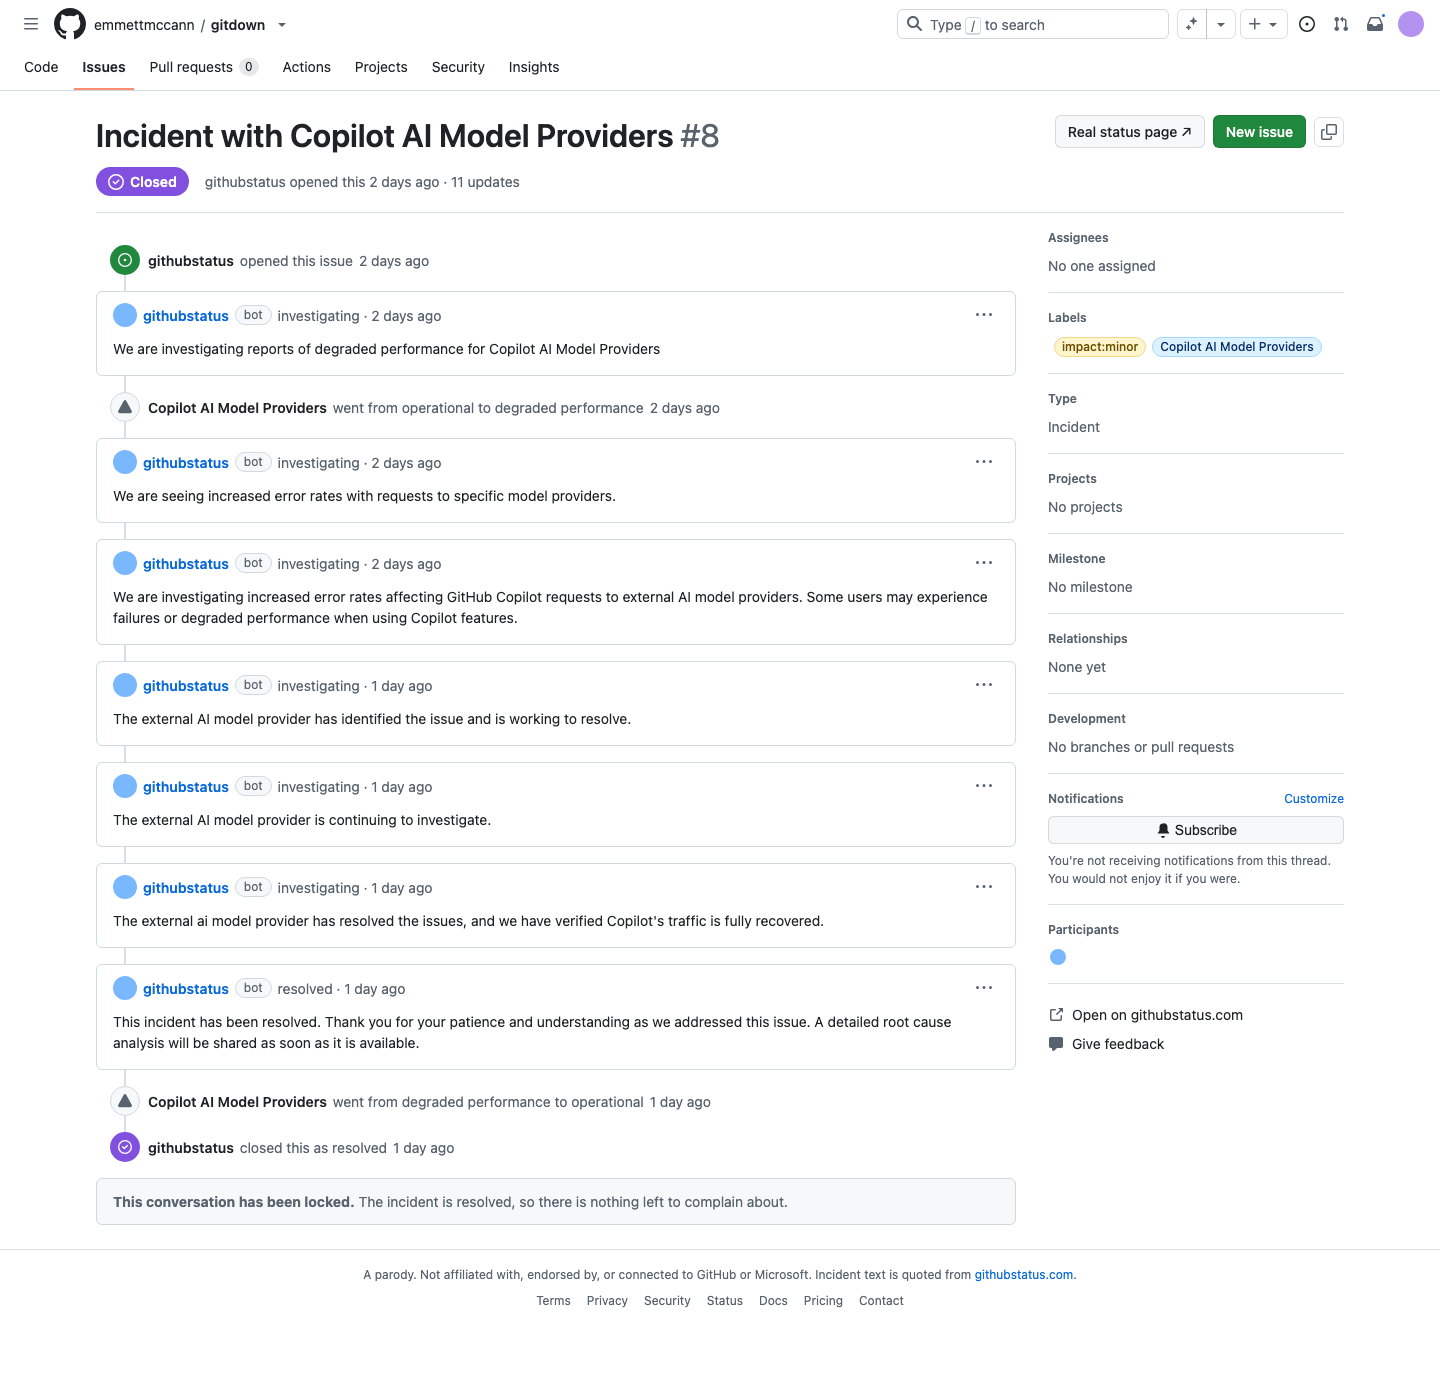
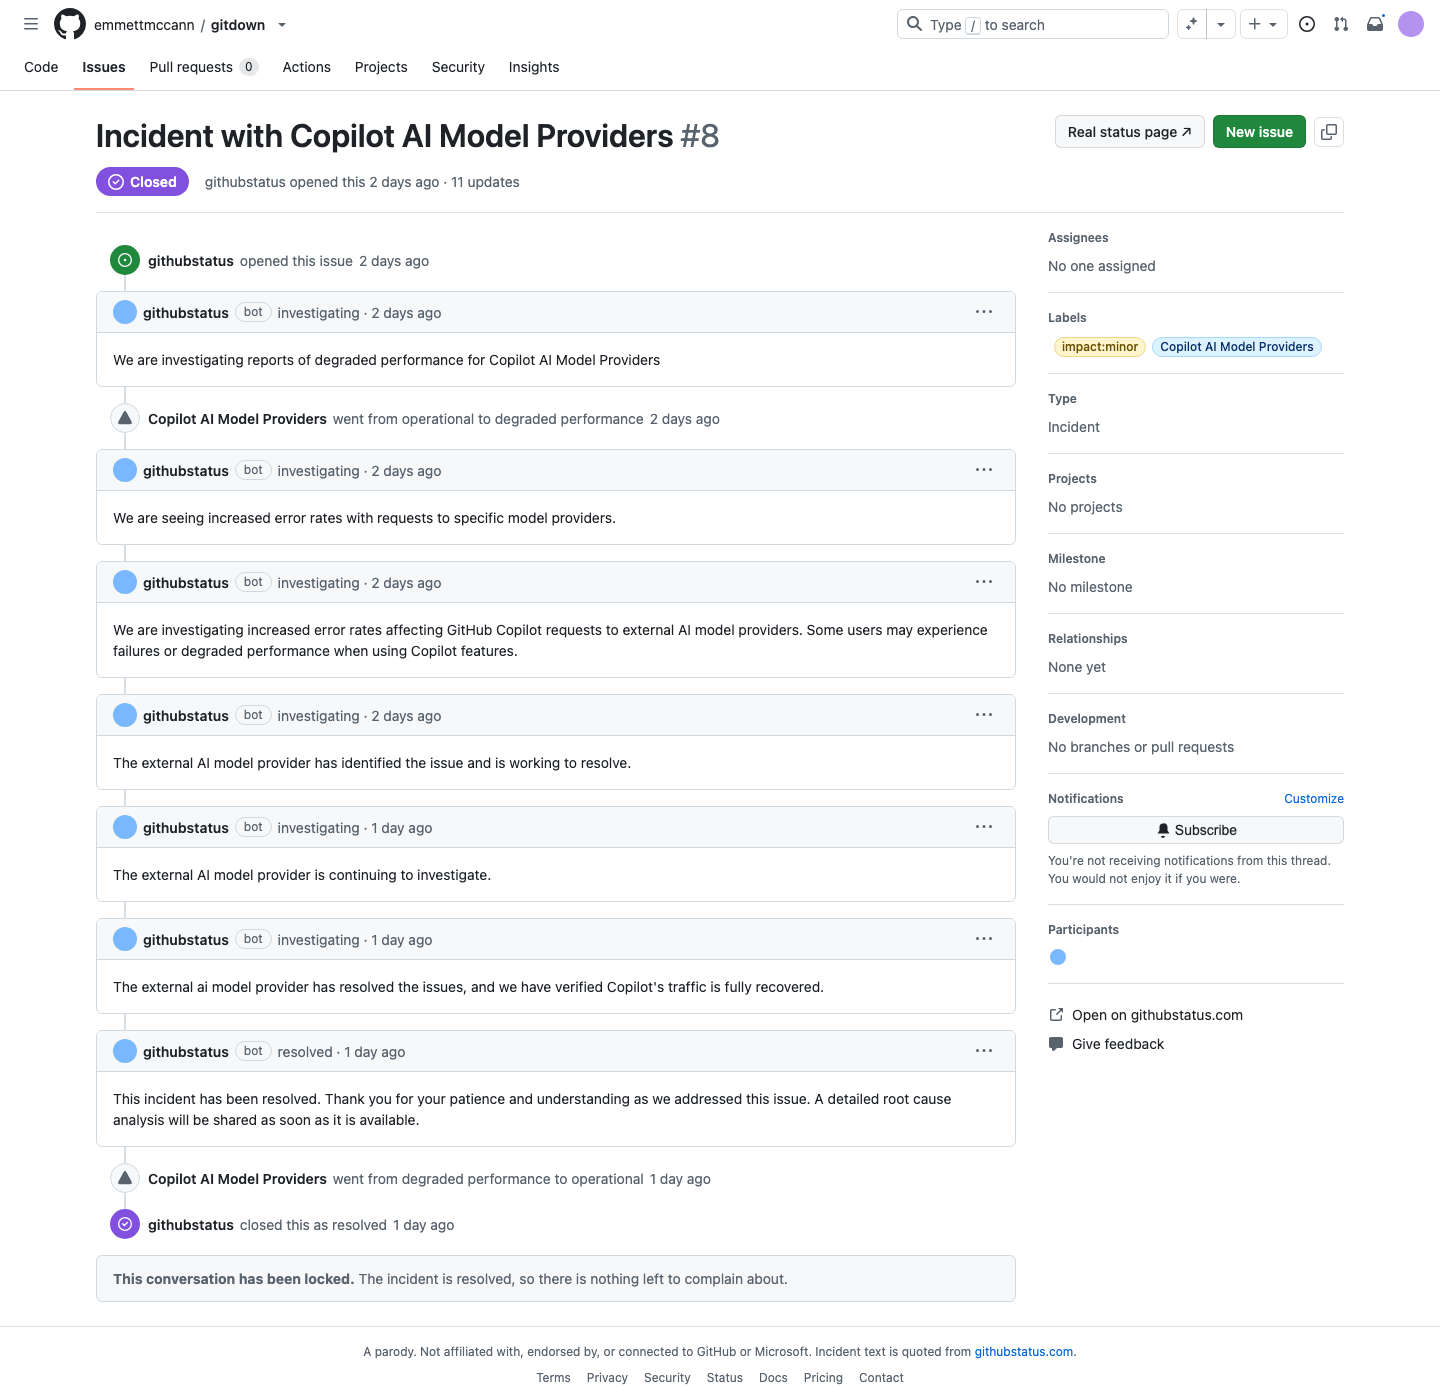
Give the comment header its filled band back (#18)
#16 flattened the comment header, on the reasoning that "signed in, the
author line is not a filled bar across the top of the card". The reference
does not bear that out: on a signed-in issue the author line sits on
--color-canvas-subtle with a rule under it, and the body is the only white
part of the card. It is the same band the composer's Write/Preview strip
already uses, which is what the card was left inconsistent with.

The fill is nested inside the card's 1px border, so its radius is a pixel
tighter than the card's — at an equal radius the corners of the fill cut
outside the border they sit in. With a divider under the header the body no
longer needs to carry the gap itself, so its padding goes back to an even 16.

Two things the band made visible:

- The kebab is an `.icon-btn`, sized 30px for the global header. Left at
  that, the button rather than the avatar set the height of the band: 47px
  against the ~40 the reference shows. Sized to the avatar it is 41px.
- The author name rendered as a blue link. On github.com a comment author is
  default foreground at 600 — the blue is saved for links inside the comment
  body, and with the name blue the header had two competing blues in it.

npm test 110 passing · npm run typecheck clean · issue view verified open
and closed, and the before/after captures regenerated.

Changed region(s): [[0.0625, 0.215, 0.75, 1.0], [0.3125, 0.9521, 0.3438, 0.9829]]

diff --git a/public/css/style.css b/public/css/style.css
@@ -402,14 +402,20 @@ kbd {
   border-radius: var(--radius);
   background: var(--color-canvas-default);
 }
-/* Signed in, the author line is not a filled bar across the top of the card —
-   it sits on the card itself, with the avatar inside the border and the comment
-   actions at the far right. */
+/* The author line is a filled bar across the top of the card, divided from the
+   body — the same band the composer's Write/Preview strip uses. The avatar sits
+   inside it and the comment actions sit at the far right.
+
+   The fill is inside a 1px border, so it needs a radius 1px tighter than the
+   card's or its corners cut outside the border it is nested in. */
 .comment-header {
   display: flex; align-items: center; justify-content: space-between; gap: 8px;
+  background: var(--color-canvas-subtle);
+  border-bottom: 1px solid var(--color-border-default);
+  border-radius: calc(var(--radius) - 1px) calc(var(--radius) - 1px) 0 0;
   /* Matches the body's inset, so the avatar and the first line of the comment
      share a left edge. */
-  padding: 8px 16px 0;
+  padding: 8px 16px;
   font-size: 14px;
 }
 .comment-header .avatar {
@@ -422,7 +428,12 @@ kbd {
    as such — without this they run together. */
 .comment-header > div { display: flex; align-items: center; gap: 6px; min-width: 0; }
 .comment-header .comment-actions { flex-shrink: 0; }
-.comment-header .who { font-weight: 600; }
+/* `.icon-btn` is sized for the global header, and at 30px it, not the avatar,
+   would set the height of the band. */
+.comment-header .comment-actions .icon-btn { height: 24px; min-width: 24px; }
+/* The author of a comment is not a blue link on github.com: the name carries
+   its weight, and the blue is saved for the links inside the comment. */
+.comment-header .who { font-weight: 600; color: var(--color-fg-default); }
 .comment-header .when { color: var(--color-fg-muted); font-weight: 400; }
 .comment-header .owner-pill {
   border: 1px solid var(--color-border-default);
@@ -433,7 +444,7 @@ kbd {
 }
 /* Status updates routinely end in a bare incident URL. Unbroken, one of those
    is wider than a phone and drags the whole page sideways with it. */
-.comment-body { padding: 8px 16px 16px; overflow-wrap: break-word; }
+.comment-body { padding: 16px; overflow-wrap: break-word; }
 
 .meta-section { border-bottom: 1px solid var(--color-border-muted); padding: 16px 0; }
 .meta-section:first-child { padding-top: 0; }

diff --git a/public/503.html b/public/503.html
@@ -4,7 +4,7 @@
 <meta charset="UTF-8">
 <title>Unicorn · emmettmccann/gitdown</title>
 <meta name="viewport" content="width=device-width, initial-scale=1">
-<link rel="stylesheet" href="/css/style.css?v=8">
+<link rel="stylesheet" href="/css/style.css?v=9">
 </head>
 <body>
 

diff --git a/public/index.html b/public/index.html
@@ -4,7 +4,7 @@
 <meta charset="UTF-8">
 <title>Issues · emmettmccann/gitdown</title>
 <meta name="viewport" content="width=device-width, initial-scale=1">
-<link rel="stylesheet" href="/css/style.css?v=8">
+<link rel="stylesheet" href="/css/style.css?v=9">
 </head>
 <body>
 

diff --git a/public/issue.html b/public/issue.html
@@ -4,7 +4,7 @@
 <meta charset="UTF-8">
 <title>Issue · emmettmccann/gitdown</title>
 <meta name="viewport" content="width=device-width, initial-scale=1">
-<link rel="stylesheet" href="/css/style.css?v=8">
+<link rel="stylesheet" href="/css/style.css?v=9">
 </head>
 <body>
 

diff --git a/docs/ui-comparison/README.md b/docs/ui-comparison/README.md
@@ -10,20 +10,31 @@ equivalent views on github.com.
 | `signed-in-list-before.png` / `signed-in-list-after.png` | `/?state=closed` | Signed-out chrome → signed-in |
 | `signed-in-issue-before.png` / `signed-in-issue-after.png` | `/issues/5` | Signed-out chrome → signed-in |
 | `stale-bundle-before.png` / `stale-bundle-after.png` | `/issues/8` | Deployed bundle out of step with the CSS |
+| `comment-header-before.png` / `comment-header-after.png` | `/issues/8` | Comment header flat → filled band |
 
-The `stale-bundle-*` pair is not a design change — both frames are the same
-commit's CSS. `before` is that CSS rendered against the client bundle the
-deployed site was actually serving, which predates the avatars moving inside the
-comment cards, so the timeline icons stack above the cards and the rail lines up
-with nothing. `after` is the same page once the build guarantees the two ship
-together. Reproduce `before` by building the previous bundle over the current
-tree:
+The `stale-bundle-*` pair captures the deployed issue view against the fixed
+one. `before` is `9f8baf2` exactly as gitdown.chat served it: that commit's CSS
+rendered against the client bundle actually on the edge, which predates the
+avatars moving inside the comment cards — so the timeline icons stack above the
+cards and the rail lines up with nothing. Reproduce it by putting both halves
+back:
 
 ```bash
+git show 9f8baf2:public/css/style.css > public/css/style.css
 git archive e13b6e6 src/client | tar -x -C /tmp/oldclient
 npx esbuild /tmp/oldclient/src/client/main.ts --bundle --minify \
   --format=esm --target=es2022 --outfile=public/js/app.js
 ```
+
+`after` is the same page with the bundle the build now guarantees, and with the
+comment header restored to a filled band — `9f8baf2` had dropped it on the
+grounds that the signed-in views do not have one, which the reference does not
+bear out.
+
+The `comment-header-*` pair isolates that last part, with the bundle correct on
+both sides: `before` is `main` once the bundle fix had shipped, still carrying a
+flat header, and `after` is the band restored. Both are the same 1440×700 frame
+so the header is legible without the whole thread around it.
 
 ## Reproducing them
 
